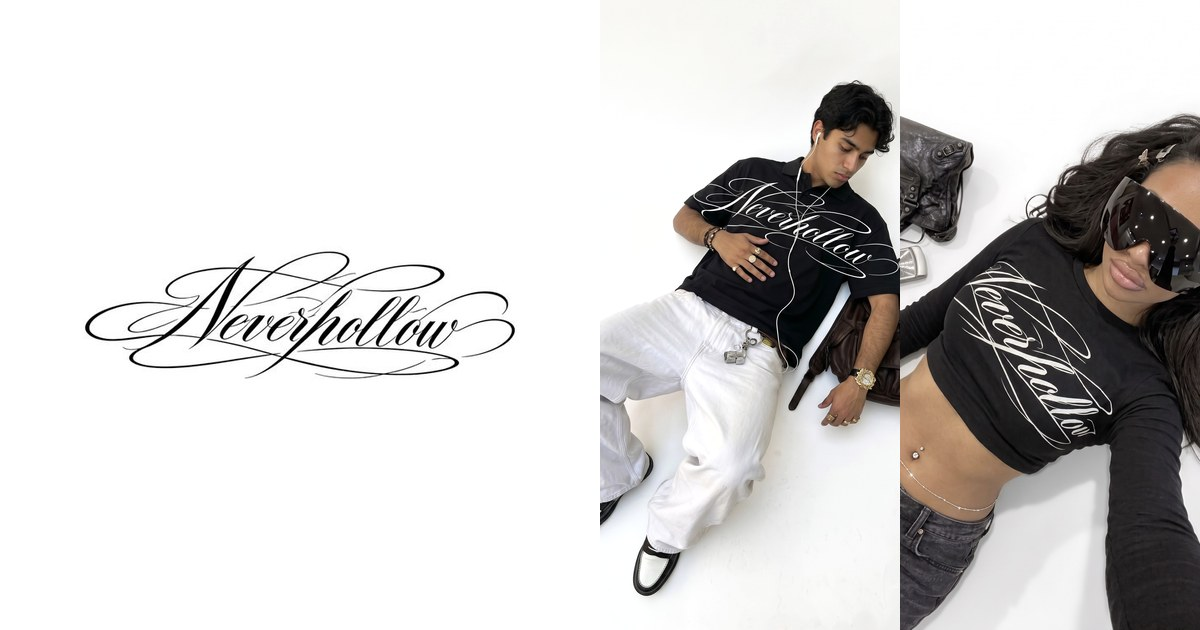
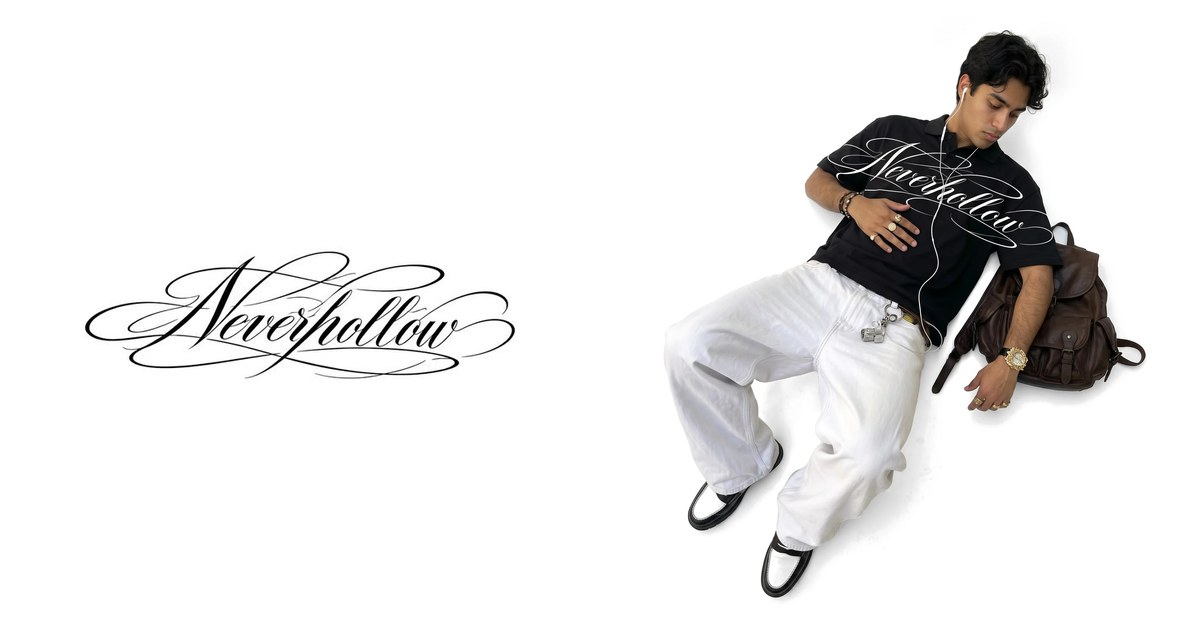
Theme: borderless photos (setting), size chart + care fields, free US shipping from $100, new share image
Claude-Session: https://claude.ai/code/session_01QScyZqKeqX7ZnCnb2t4eEm

diff --git a/shopify/theme/assets/base.css b/shopify/theme/assets/base.css
@@ -179,6 +179,7 @@ textarea.field { height: auto; padding: 12px 14px; resize: vertical; }
    on the page. Photos are shown exactly as graded: nothing is blended over them, so blacks stay true black and
    whites stay white. The frame is drawn on top, so it stays crisp while the photo zooms and takes no space. */
 .card-frame::after, .gallery-slide::after, .cart-thumb::after, .search-hit-img::after, .mega-img::after, .editorial-fig::after { content: ""; position: absolute; inset: 0; z-index: 1; pointer-events: none; box-shadow: inset 0 0 0 1px var(--line); }
+.no-photo-outline :is(.card-frame, .gallery-slide, .cart-thumb, .search-hit-img, .mega-img, .editorial-fig)::after { content: none; }
 .slab { background: var(--black); color: var(--white); }
 .slab .muted { color: var(--grey-on-black); }
 .tag { position: absolute; left: 10px; top: 10px; z-index: 2; font-size: 0.625rem; font-weight: 500; text-transform: uppercase; letter-spacing: var(--track); line-height: 1; padding: 6px 7px 5px; background: rgb(255 255 255 / 0.92); color: var(--black); }
@@ -567,6 +568,11 @@ body.is-locked { overflow: hidden; }
 .acc[open] summary .icon { transform: rotate(45deg); }
 .acc-body { padding-bottom: 22px; font-size: 0.875rem; line-height: 1.7; max-width: 62ch; }
 .acc-body .muted { color: var(--grey); }
+.size-table-wrap { margin: 14px 0 16px; overflow-x: auto; -webkit-overflow-scrolling: touch; }
+.size-table { width: 100%; border-collapse: collapse; font-size: 0.8125rem; font-variant-numeric: tabular-nums; white-space: nowrap; }
+.size-table th, .size-table td { padding: 9px 14px 9px 0; text-align: left; border-bottom: 1px solid var(--line); }
+.size-table thead th { font-size: 0.625rem; font-weight: 500; letter-spacing: 0.12em; text-transform: uppercase; color: var(--grey); }
+.size-table tbody th { font-weight: 500; }
 .sticky-buy { position: fixed; left: 0; right: 0; bottom: 0; z-index: 30; display: flex; align-items: center; gap: 16px; padding: 10px var(--gutter) calc(10px + env(safe-area-inset-bottom)); background: rgb(255 255 255 / 0.97); border-top: 1px solid var(--line); transform: translateY(110%); transition: transform 0.45s var(--ease-out); }
 .sticky-buy.is-visible { transform: none; }
 .sticky-buy-text { min-width: 0; flex: 1; font-size: 0.75rem; color: var(--grey); }
